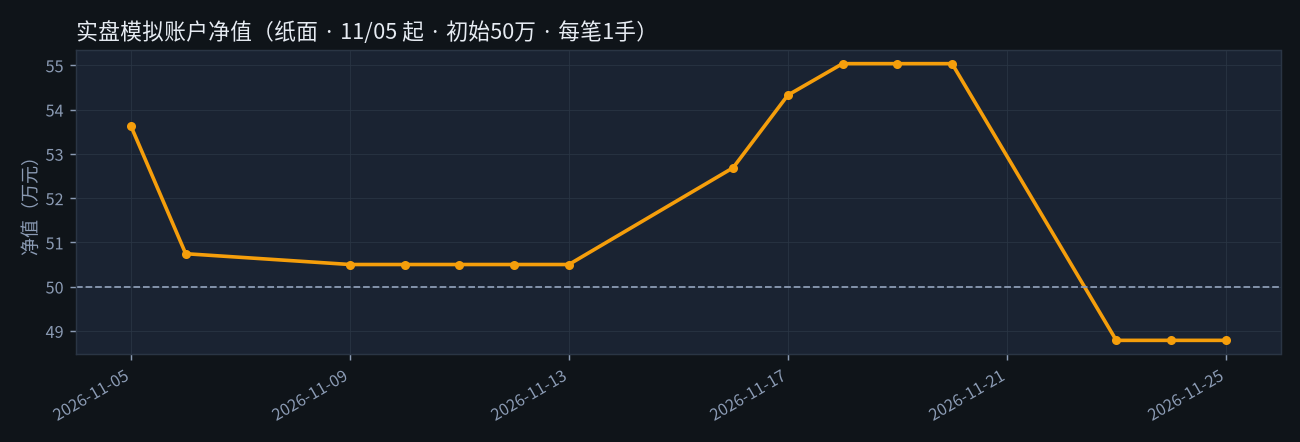
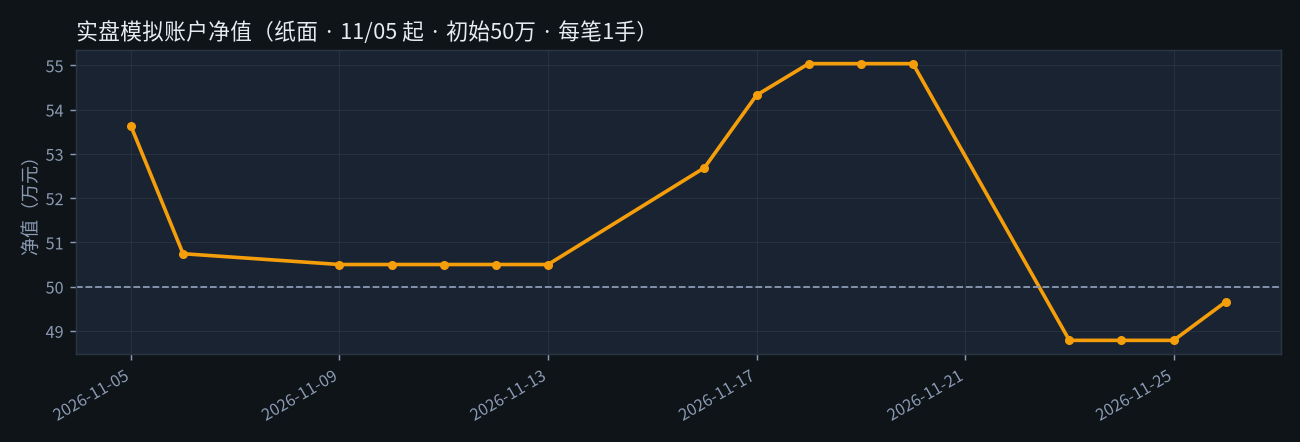
daily: 2026-11-26 satellite PF-G_IC time exit, PF-C2_IC long signal, IC Donchian fill

diff --git a/reports/2026-11-26.html b/reports/2026-11-26.html
@@ -1,0 +1,195 @@
+<!doctype html>
+<html lang="zh-CN"><head><meta charset="utf-8"><meta name="viewport" content="width=device-width,initial-scale=1">
+<title>2026-11-26 · 股指期货量化系统每日复盘</title>
+<style>:root{
+  --bg:#0f1419;--card:#1a2332;--border:#2a3544;--text:#e7ecf3;--muted:#8b9bb4;
+  --accent:#3b82f6;--ok:#22c55e;--ok-bg:#12261c;--ok-bd:#1e4d36;
+  --watch:#f59e0b;--watch-bg:#2a2110;--watch-bd:#5c4518;
+  --danger:#ef4444;--table-head:#151c27;
+}
+*{box-sizing:border-box}
+body{
+  margin:0;font-family:-apple-system,BlinkMacSystemFont,"Segoe UI","PingFang SC","Hiragino Sans GB","Microsoft YaHei",sans-serif;
+  background:var(--bg);color:var(--text);line-height:1.65;font-size:15.5px;
+}
+.wrap{max-width:820px;margin:0 auto;padding:24px 16px 56px}
+a{color:var(--accent)}
+.topnav{margin-bottom:18px;font-size:.9rem}
+.topnav a{text-decoration:none}
+header h1{font-size:1.45rem;margin:0 0 6px;font-weight:700}
+header .sub{color:var(--muted);margin:0 0 14px;font-size:.92rem}
+.badge{
+  display:inline-block;padding:3px 10px;border-radius:999px;font-size:.78rem;font-weight:650;
+  background:#1e3a5f;color:#93c5fd;margin-right:6px;
+}
+.disclaimer{
+  padding:12px 14px;border:1px solid var(--border);border-radius:10px;
+  background:#151c27;color:var(--muted);font-size:.88rem;margin-bottom:28px;
+}
+h2{
+  font-size:1.12rem;margin:32px 0 12px;padding-bottom:8px;
+  border-bottom:1px solid var(--border);font-weight:700;
+}
+h3{font-size:1rem;margin:20px 0 10px;font-weight:650}
+p,li{color:var(--text)}
+.muted{color:var(--muted)}
+.lead{font-size:.98rem;margin:0 0 16px}
+table{
+  width:100%;border-collapse:collapse;font-size:.9rem;margin:10px 0 16px;
+  background:var(--card);border-radius:10px;overflow:hidden;border:1px solid var(--border);
+}
+th,td{padding:10px 12px;text-align:left;border-bottom:1px solid var(--border);vertical-align:top}
+th{background:var(--table-head);color:var(--muted);font-weight:600;white-space:nowrap}
+tr:last-child td{border-bottom:none}
+td.num,th.num{text-align:right;font-variant-numeric:tabular-nums}
+.chart{
+  display:block;width:100%;max-width:100%;height:auto;border-radius:12px;
+  border:1px solid var(--border);margin:12px 0 8px;background:#111;
+}
+.cap{font-size:.8rem;color:var(--muted);margin:0 0 18px}
+.grid{display:grid;gap:14px}
+@media(min-width:640px){.grid-2{grid-template-columns:1fr 1fr}}
+.cmd{
+  border-radius:14px;padding:16px 16px 14px;border:1px solid var(--border);
+  background:var(--card);margin-bottom:14px;
+}
+.cmd.open{border-color:var(--ok-bd);background:linear-gradient(180deg,var(--ok-bg),var(--card))}
+.cmd.watch{border-color:var(--watch-bd);background:linear-gradient(180deg,var(--watch-bg),var(--card))}
+.cmd .head{display:flex;flex-wrap:wrap;align-items:center;gap:8px;margin-bottom:10px}
+.cmd .name{font-size:1.05rem;font-weight:700;margin:0}
+.pill{
+  font-size:.72rem;font-weight:700;padding:3px 8px;border-radius:999px;letter-spacing:.02em;
+}
+.pill.open{background:#14532d;color:#86efac}
+.pill.watch{background:#78350f;color:#fcd34d}
+.pill.alt{background:#1e3a5f;color:#93c5fd}
+.kv{width:100%;border:none;background:transparent;margin:0}
+.kv th,.kv td{border:none;border-bottom:1px dashed #2a3544;padding:8px 0;background:transparent}
+.kv th{width:5.5em;color:var(--muted);font-weight:600}
+.kv tr:last-child th,.kv tr:last-child td{border-bottom:none}
+.rules{
+  padding:14px 16px;border-radius:12px;border:1px solid var(--border);
+  background:var(--card);margin:10px 0;
+}
+.rules ul{margin:8px 0 0;padding-left:1.2em}
+.rules li{margin:6px 0}
+.evidence{
+  padding:14px 16px;border-radius:12px;border:1px solid #1e3a5f;
+  background:#121a28;margin:12px 0 18px;
+}
+.evidence h3{margin-top:0}
+footer{margin-top:36px;padding-top:14px;border-top:1px solid var(--border);color:var(--muted);font-size:.8rem}
+.strong{font-weight:650;color:#fff}
+.list{display:flex;flex-direction:column;gap:12px}
+.card{display:block;padding:16px 18px;border:1px solid var(--border);border-radius:12px;background:var(--card);text-decoration:none;color:inherit}
+.card:hover{border-color:var(--accent)}
+.card .date{font-size:.82rem;color:var(--accent);font-weight:600;margin-bottom:4px}
+.card .title{font-size:1.05rem;font-weight:650;margin:0 0 6px;border:none;padding:0}
+.card .meta{font-size:.88rem;color:var(--muted);margin:0}
+.tag{display:inline-block;font-size:.72rem;padding:2px 8px;border-radius:999px;background:#1e3a2f;color:#86efac;margin-left:8px}
+table{display:table}
+@media(max-width:600px){table{font-size:.82rem}th,td{padding:8px 6px}}
+</style></head><body><div class="wrap">
+<div class="topnav"><a href="../index.html">← 复盘首页</a></div>
+<header><h1>股指期货量化系统 · 每日复盘</h1>
+<p class="sub">交易日 <strong>2026-11-26（周四）</strong> · 下一交易日 <strong>2026-11-27（周五）</strong></p>
+<span class="badge">主策略 PF-K（IM）</span><span class="badge">纸面模拟账户运行中</span></header>
+<div class="disclaimer"><strong>免责声明</strong>：独立量化系统的研究复盘，仅供参考学习，不构成投资建议，不代下单。期货有杠杆，可能亏损超过预期，行动与盈亏由你本人承担。</div>
+
+<div class="cmd watch"><div class="head"><span class="pill watch">明日指令</span><h3 class="name">明天（2026-11-27（周五））继续持有 空单，不加仓</h3></div>
+<table class="kv"><tbody>
+<tr><th>持仓</th><td>空 1 手，2026-11-26 开盘 5513.2 成交</td></tr>
+<tr><th>止损价</th><td><strong>5855.9</strong>（盘中触及即平）</td></tr>
+<tr><th>今日浮动</th><td>+44.2 点（约 +0.88 万元/手，未扣费）</td></tr>
+<tr><th>最晚平仓</th><td>已持 1 天；最晚 <strong>2026-11-30（周一） 收盘前</strong> 平仓</td></tr></tbody></table></div>
+
+<h2>一、今天发生了什么</h2>
+<p class="lead">IM（中证1000股指期货主连）今天开 5513.2、最高 5604.0、最低 5362.2、收 <strong>5469.0</strong>，
+比昨天收盘 5434.4 <strong>涨 34.6 点（+0.64%）</strong>。开盘相对昨收 高开 78.8 点，盘中震荡走低，收阴线。</p>
+<div class="rules"><ul><li>今天开盘按昨天的信号空 1 手，成交 5513.2，止损 5855.9。</li></ul></div>
+<img class="chart" src="../assets/2026-11-26/im_price_z.png" alt="IM 近100日K线与zSAS">
+<p class="cap">上：IM 近 100 个交易日 K 线和系统历史开平仓点；下：每日 zSAS，越过虚线就出信号。</p>
+
+<h2>二、为什么出这个信号（白话版）</h2>
+<p>今天收盘后算出 <strong>zSAS = 0.05</strong>，在 ±1.25 之间，不触发。</p>
+<div class="rules"><ul>
+<li><b>它在看什么</b>：今天这根K线的涨跌，相对「平时一天能波动多少」（ATR）有多猛；同时扣掉「开盘跳空」那部分——靠隔夜跳空涨上去的不算数，盘中一路买上去的才算。</li>
+<li><b>怎么算</b>：SAS = 0.55 × 今日涨跌幅/ATR比例 − 0.35 × 异常跳空；再和过去 60 天比，变成 zSAS（高出平时几个标准差）。</li>
+<li><b>怎么用</b>：zSAS ≥ +1.25 → 今天涨得「比平常猛得多」且不是靠跳空 → 系统认为短期惯性会延续，次日开盘做多；≤ −1.25 反过来做空；中间不动。</li>
+<li><b>今天</b>：开盘高开 78.8 点，但盘中冲高回落、收盘低于开盘；扣掉跳空后盘中走幅不强，zSAS 只有 0.05，在 ±1.25 触发线以内，不新开仓。目前持有的空单来自昨天收盘信号，已在今日开盘成交。</li>
+</ul></div>
+
+<h2>三、明天具体怎么挂单</h2>
+<p>规则只有一条：<b>次日开盘价成交</b>。所以明早 9:25 集合竞价或 9:30 开盘用市价/对价跟进即可；止损价按你的<b>实际成交价</b>算。</p>
+<p class="muted">明天没有新开仓指令。</p>
+<div class="evidence"><h3>执行提醒（执行建议，未回测）</h3><ul>
+<li>只在开盘这一刻跟；<b>开盘没成交就放弃本笔，不在盘中追高/追低挂天价单</b>。回测只验证过「开盘价成交」。</li>
+<li>止损单可在成交后立刻挂条件单（多单：最新价 ≤ 止损价 触发卖出平仓）。若开盘就跳空越过止损，按开盘价离场（回测同样处理）。</li>
+<li>第3天收盘前没止损，就在尾盘平掉；中间不加仓、不移动止损。</li>
+</ul></div>
+
+<h2>四、实盘模拟账户（11/5起）<span class="sub" style="font-size:.8em;font-weight:400"> · 纸面记账 · 初始50万 · 每笔1手</span></h2>
+<img class="chart" src="../assets/2026-11-26/ledger.png" alt="纸面账户净值曲线">
+<table><tbody>
+<tr><td>当前净值</td><td class="num"><strong>496,554 元</strong></td><td>收益率 <strong>-0.69%</strong> · 最大回撤 -11.36%</td></tr>
+<tr><td>已实现 / 浮动盈亏</td><td class="num">-12,155 / +8,709 元</td><td>已平仓 3 笔 · 胜率 67% · 已付费用滑点约 647 元</td></tr>
+</tbody></table>
+<table><thead><tr><th>状态</th><th>方向</th><th>开仓日/价</th><th>平仓日/价</th><th class="num">费用滑点(点)</th><th class="num">净盈亏(元)</th><th>说明</th></tr></thead><tbody>
+<tr><td>已平仓</td><td>多</td><td>2026-11-05 / 6423.0</td><td>2026-11-09 / 6448.6</td><td class="num">0.7</td><td class="num">+4,981</td><td>时间退出</td></tr>
+<tr><td>已平仓</td><td>空</td><td>2026-11-16 / 6215.0</td><td>2026-11-18 / 5987.4</td><td class="num">0.7</td><td class="num">+45,384</td><td>时间退出</td></tr>
+<tr><td>已平仓</td><td>空</td><td>2026-11-23 / 5484.0</td><td>2026-11-23 / 5794.7</td><td class="num">1.9</td><td class="num">-62,520</td><td>止损</td></tr>
+<tr><td>持仓中</td><td>空</td><td>2026-11-26 / 5513.2</td><td>未平（今收 5469.0，止损 5855.9）</td><td class="num">0.7</td><td class="num">+8,709</td><td>已持1天/最多3天</td></tr>
+</tbody></table>
+<p class="cap">口径：只跟主策略 PF-K（IM，每笔 1 手）。成交价=日线开盘价/止损价/第3天收盘价；费用=开·平昨万0.23（平今万2.3）+ 往返滑点0.4点；持仓中的浮盈已预扣平仓费用。纸面记账，非真实成交。</p>
+
+<h2>五、历史成绩（样本外，费后）</h2>
+<img class="chart" src="../assets/2026-11-26/oos_equity.png" alt="样本外权益 vs 中证1000">
+<p class="cap">「样本外」= 2025-06-03 之后的数据，参数是在那之前就定死的，这段相当于「模拟实战」。图为 2手/100万 口径累计收益率，对比同期中证1000指数。</p>
+
+<table><thead><tr><th>指标（样本外 2025-06-03 → 2026-11-26，费后）</th><th class="num">回测口径 2手/100万</th><th class="num">重算 1手/50万</th></tr></thead><tbody>
+<tr><td>交易笔数 / 胜率</td><td class="num">47 笔 / 61.7%</td><td class="num">47 笔 / 61.7%</td></tr>
+<tr><td>累计盈利</td><td class="num">+45.5 万元</td><td class="num">+22.8 万元</td></tr>
+<tr><td>策略年化（单利口径）</td><td class="num">+30.8%</td><td class="num">+30.8%</td></tr>
+<tr><td>中证1000 同期年化</td><td class="num">-6.0%</td><td class="num">-6.0%</td></tr>
+<tr><td><strong>超额年化</strong>（策略−指数）</td><td class="num"><strong>+36.7%</strong></td><td class="num">+36.7%</td></tr>
+<tr><td>2025年（6/3起）：策略 / 指数 / 超额</td><td class="num" colspan="2">+33.6% / +25.1% / +8.4%</td></tr>
+<tr><td>2026年至今：策略 / 指数 / 超额</td><td class="num" colspan="2">+12.0% / -28.7% / +40.6%</td></tr>
+</tbody></table>
+<p class="cap">「1手/50万」是把同一批成交按 1 手、50万本金重算：金额减半、收益率相同（因为仓位和本金同比例缩小）。年化=总收益÷年数（单利）。
+数字由冻结参数实时重算。与存档 summary.json（2026-11-20）对照：存档 46 笔 / 胜率 63.0% / 超额年化 44.37%。</p>
+
+<h2>六、风险提示</h2>
+<div class="rules"><ul>
+<li><b>历史 ≠ 未来</b>：样本外只有 47 笔，统计上仍偏薄；任何一段连亏都可能发生。</li>
+<li><b>参数偏脆</b>：持有天数只有 H≈3 天附近站得住，邻域诊断里：持有 2 天时超额年化只剩约 +3%~+4%；持有 4–5 天虽然总数更好看，但 2025 年行情上涨段会明显跑输指数（攻防不再两全）。12 个邻近参数里只有 H=3 的 3 格「攻防两全」——所以严格按 3 天执行，不要自作主张拿更久或更短。</li>
+<li><b>单笔最大亏损</b>：止损 1.5×ATR = 356.3 点 × 200 元/点 ≈ <b>7.1 万元/手</b>（另加费用滑点；跳空越过止损时会更多）。50万账户单笔最坏约 14.3%。</li>
+<li>IM 一手合约价值约 109 万元（价格×200），保证金只占其中一部分，杠杆高，账户资金要留足以免被强平。</li>
+<li>不叠加：持仓期间出现的新信号不接；平仓当天出现的信号也不接（与回测一致）。</li>
+</ul></div>
+
+
+<h2>附：卫星策略 PF-K-IC（中证500股指期货 IC）</h2>
+<div class="rules"><p style="margin:0">同一套指标用在 IC 上，但参数单独冻结：阈值 ±1.5、止损 1.5×ATR、最多拿 5 天。<b>不计入上面的纸面模拟账户</b>，仅供对照。</p>
+<p style="margin:8px 0 0">今日 IC 收 5790.0（+21.0 点）。不动（zSAS=-0.08）。</p>
+<p class="cap" style="margin:8px 0 0">样本外（2手/100万口径）：32 笔，胜率 59.4%，超额年化 vs 中证500 +30.9%。</p></div>
+
+
+<h2>附：防守卫星信号</h2>
+<div class="rules"><p style="margin:0"><b>PF-G（IC）</b>：今日收盘时间退出。11-20 开空 6069.8，持有满 5 个交易日，最晚即今日 11-26 收盘前平；今日最高 5932.0 未触及止损 6367.45，参考离场价=今收 5790.0，毛盈 279.8 点。原因：按冻结规则 PF-G_IC0_K10_q1.0_s1.5_RNone_H5 到期时间退出。今日收盘 zDHRS=1.58 本可再开空，但平仓当日信号不接（与回测 i=exit+1 一致），明日不动。</p>
+<p style="margin:8px 0 0"><b>PF-C2（IC）</b>：今日收盘确认，明日参考开多。CPS2=2.52，超过动态阈值约 1.17。参考进场价=2026-11-27 开盘；止损=成交价 − 1.5×ATR（信号日 ATR 约 216.0 点，约 324.1 点）；止盈=成交价 + 2R（约 648.1 点）；最长 5 个交易日，最晚 2026-12-03（周四）收盘前平。示例：若开盘≈今日收盘 5790.0，止损约 5465.9，止盈约 6438.1。原因：按冻结规则 PF-C2_IC0_H5-15_B_q0.70_s1.5_R2.0_H5 次日开盘做多。</p>
+<p style="margin:8px 0 0"><b>IC 日线 Donchian（N20/H5）</b>：今日已按昨天收盘信号开空。参考进场价 5850.0（2026-11-26 开盘）；止损 6174.1（成交价 + 1.5×ATR，信号日 ATR 约 216.0 点，约 324.1 点）；退出优先回到 MA20，否则最长 5 个交易日，最晚 2026-12-02（周三）收盘前平。今日最高 5932.0 未触及止损、未回到 MA20，今收浮动约 +60.0 点，纸面仍持有。原因：昨天收盘跌破 Donchian 下轨，按冻结规则 IC_DonD_N20_H5_Xma20 次日开盘成交。</p>
+<p style="margin:8px 0 0">IC 上 PF-K-IC 空仓观望；PF-G 今日已时间退出、平仓当日不接新空；Donchian 今日已开空。同一品种纸面建议不同时叠加（优先序：PF-K-IC &gt; PF-C2/PF-G &gt; IC_DON），故若只留一笔纸面，优先观察 PF-C2 明日开多，Donchian 已开空单仅作对照、不宜叠加。</p>
+<p class="cap" style="margin:8px 0 0">卫星纸面/参考，不入 PF-K 主账户、不代下单。</p></div>
+<h2>七、术语小词典</h2>
+<table><tbody>
+<tr><td>ATR</td><td>平均真实波幅（14日），代表「这个品种平时一天大概波动多少点」。今天用于止损的 ATR = 237.5 点。</td></tr>
+<tr><td>zSAS</td><td>系统的核心指标：今天「盘中走出来的涨跌」比过去 60 天平均水平高出几个标准差。±1.25 是开仓线。</td></tr>
+<tr><td>样本外</td><td>定参数时没用过的数据。在样本外还能赚钱，才说明不是「拟合历史」。本系统切点 2025-06-03。</td></tr>
+<tr><td>止损</td><td>预先定好的认错价格，价格碰到就平仓离场，控制单笔最大亏损。</td></tr>
+<tr><td>对价</td><td>买入挂卖一价、卖出挂买一价，保证立刻成交。</td></tr>
+</tbody></table>
+
+<h2>数据与缺口</h2>
+<ul class="muted"><li>今日无数据缺口。IM/IC 主连与中证1000/500 收盘价取自新浪 15:00/15:30 收盘报价（生成时日线历史接口尚未滚到当日）；OHLC、昨收与昨持仓已交叉核对。</li><li>数据：IM0/IC0 主连日线（v2/*_raw.csv）、中证1000/500 指数日线；参数冻结 PF-K_q1.25_s1.5_RNone_H3 / PF-K-IC_q1.5_s1.5_RNone_H5，未调参。</li></ul>
+<footer>生成：2026-11-26 15:43（北京时间）· 仓库 nandawys/index-quant · 研究参考，不代下单</footer>
+</div></body></html>

diff --git a/index.html b/index.html
@@ -96,17 +96,19 @@ table{display:table}
 <h2>实盘模拟账户（11/5起）<span class="sub" style="font-size:.8em;font-weight:400"> · 纸面记账 · 初始50万 · 每笔1手</span></h2>
 <img class="chart" src="assets/ledger_latest.png" alt="纸面账户净值曲线">
 <table><tbody>
-<tr><td>当前净值</td><td class="num"><strong>487,845 元</strong></td><td>收益率 <strong>-2.43%</strong> · 最大回撤 -11.36%</td></tr>
-<tr><td>已实现 / 浮动盈亏</td><td class="num">-12,155 / +0 元</td><td>已平仓 3 笔 · 胜率 67% · 已付费用滑点约 647 元</td></tr>
+<tr><td>当前净值</td><td class="num"><strong>496,554 元</strong></td><td>收益率 <strong>-0.69%</strong> · 最大回撤 -11.36%</td></tr>
+<tr><td>已实现 / 浮动盈亏</td><td class="num">-12,155 / +8,709 元</td><td>已平仓 3 笔 · 胜率 67% · 已付费用滑点约 647 元</td></tr>
 </tbody></table>
 <table><thead><tr><th>状态</th><th>方向</th><th>开仓日/价</th><th>平仓日/价</th><th class="num">费用滑点(点)</th><th class="num">净盈亏(元)</th><th>说明</th></tr></thead><tbody>
 <tr><td>已平仓</td><td>多</td><td>2026-11-05 / 6423.0</td><td>2026-11-09 / 6448.6</td><td class="num">0.7</td><td class="num">+4,981</td><td>时间退出</td></tr>
 <tr><td>已平仓</td><td>空</td><td>2026-11-16 / 6215.0</td><td>2026-11-18 / 5987.4</td><td class="num">0.7</td><td class="num">+45,384</td><td>时间退出</td></tr>
 <tr><td>已平仓</td><td>空</td><td>2026-11-23 / 5484.0</td><td>2026-11-23 / 5794.7</td><td class="num">1.9</td><td class="num">-62,520</td><td>止损</td></tr>
+<tr><td>持仓中</td><td>空</td><td>2026-11-26 / 5513.2</td><td>未平（今收 5469.0，止损 5855.9）</td><td class="num">0.7</td><td class="num">+8,709</td><td>已持1天/最多3天</td></tr>
 </tbody></table>
 <p class="cap">口径：只跟主策略 PF-K（IM，每笔 1 手）。成交价=日线开盘价/止损价/第3天收盘价；费用=开·平昨万0.23（平今万2.3）+ 往返滑点0.4点；持仓中的浮盈已预扣平仓费用。纸面记账，非真实成交。</p>
 <h2>每日复盘</h2>
-<nav class="list" aria-label="复盘列表"><a class="card" href="reports/2026-11-25.html"><div class="date">2026-11-25（周三）<span class="tag">最新</span></div><h2 class="title">明日开空1手 IM · 止损=成交价+342.8</h2><p class="meta">IM 收 5434.4（-285.6）· zSAS -1.47 · 账户净值 48.78 万</p></a>
+<nav class="list" aria-label="复盘列表"><a class="card" href="reports/2026-11-26.html"><div class="date">2026-11-26（周四）<span class="tag">最新</span></div><h2 class="title">持空中 · 止损 5855.9</h2><p class="meta">IM 收 5469.0（+34.6）· zSAS 0.05 · 账户净值 49.66 万</p></a>
+<a class="card" href="reports/2026-11-25.html"><div class="date">2026-11-25（周三）</div><h2 class="title">明日开空1手 IM · 止损=成交价+342.8</h2><p class="meta">IM 收 5434.4（-285.6）· zSAS -1.47 · 账户净值 48.78 万</p></a>
 <a class="card" href="reports/2026-11-24.html"><div class="date">2026-11-24（周二）</div><h2 class="title">明日不动 · 空仓观望</h2><p class="meta">IM 收 5720.0（-36.0）· zSAS -0.87 · 账户净值 48.78 万</p></a>
 <a class="card" href="reports/2026-11-23.html"><div class="date">2026-11-23（周一）</div><h2 class="title">明日不动 · 空仓观望</h2><p class="meta">IM 收 5756.0（+210.4）· zSAS 2.17 · 账户净值 48.78 万</p></a>
 <a class="card" href="reports/2026-11-20.html"><div class="date">2026-11-20（周五）</div><h2 class="title">明日开空1手 IM · 止损=成交价+310.7</h2><p class="meta">IM 收 5545.6（-331.2）· zSAS -1.80 · 账户净值 55.04 万</p></a>
